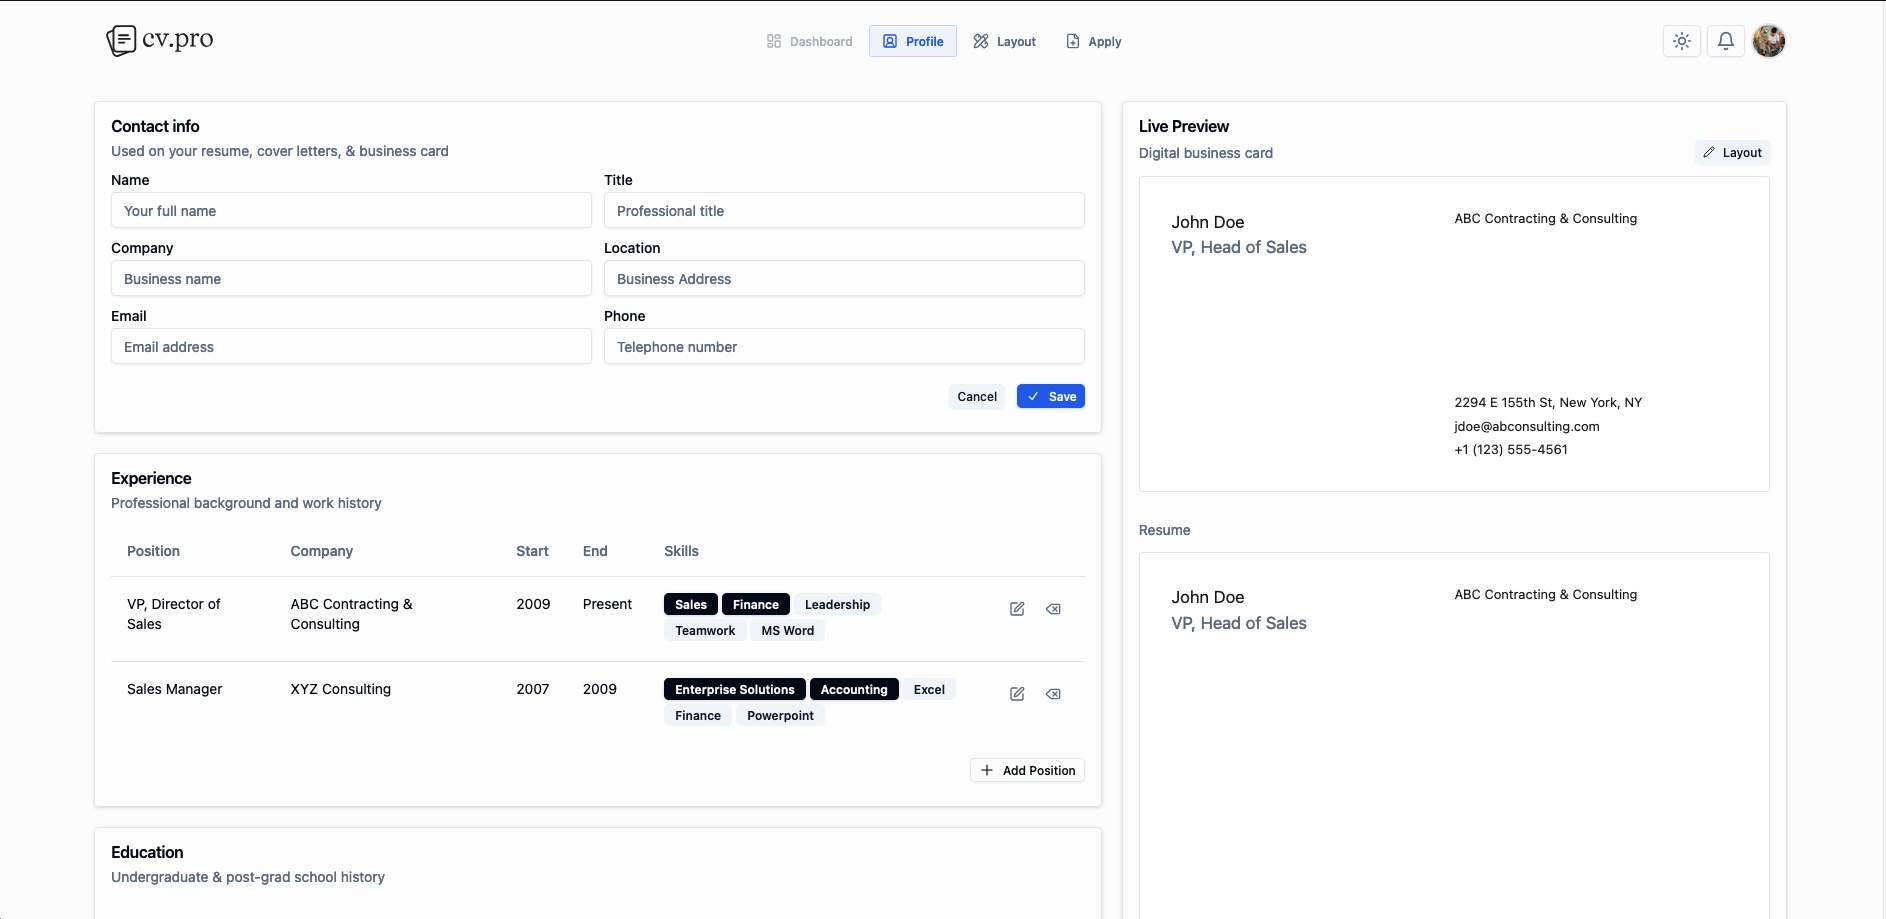
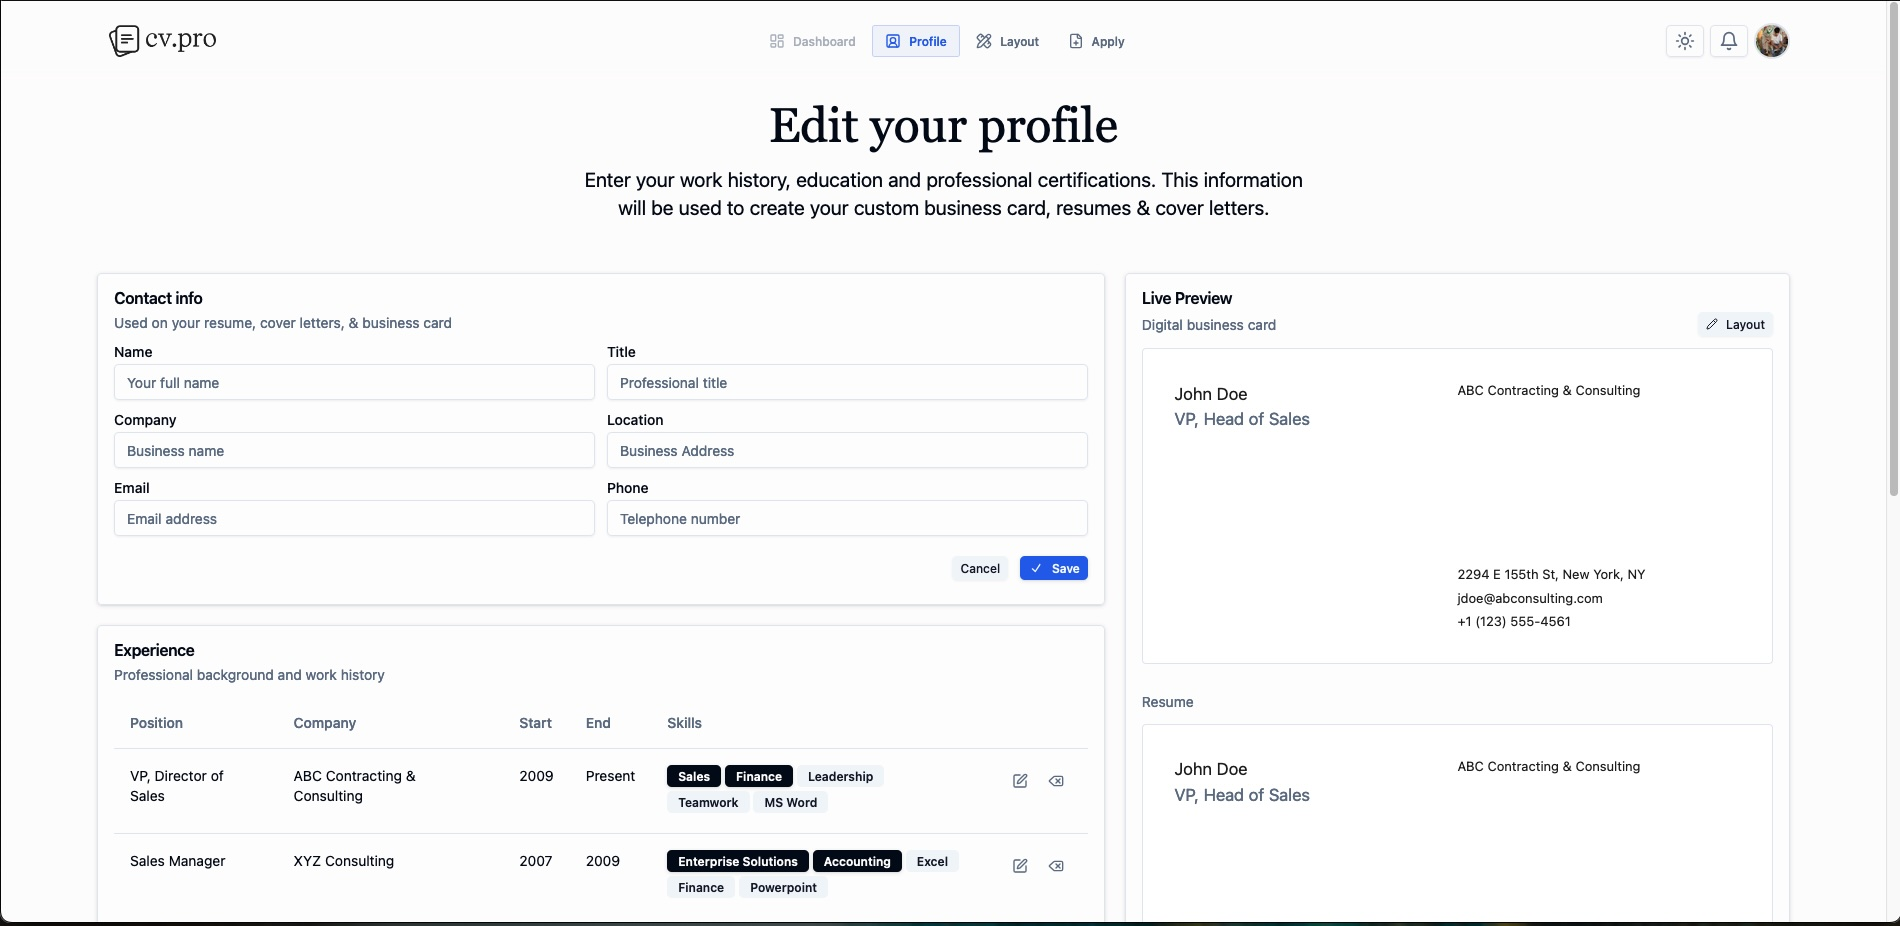
Updated profile view

diff --git a/src/routes/+page.svelte b/src/routes/+page.svelte
@@ -16,6 +16,13 @@
 </svelte:head>
 
 <Page>
+	<div class="mb-10 flex flex-col items-center gap-4 text-center">
+		<h1 class="font-serif text-2xl lg:text-5xl">Edit your profile</h1>
+		<p class="max-w-[60ch] font-sans lg:text-xl">
+			Enter your work history, education and professional certifications. This information will be
+			used to create your custom business card, resumes & cover letters.
+		</p>
+	</div>
 	<div class="grid w-full grid-cols-1 gap-5 lg:grid-cols-5">
 		<div class="flex flex-col gap-5 lg:col-span-3">
 			<ContactInfo />
